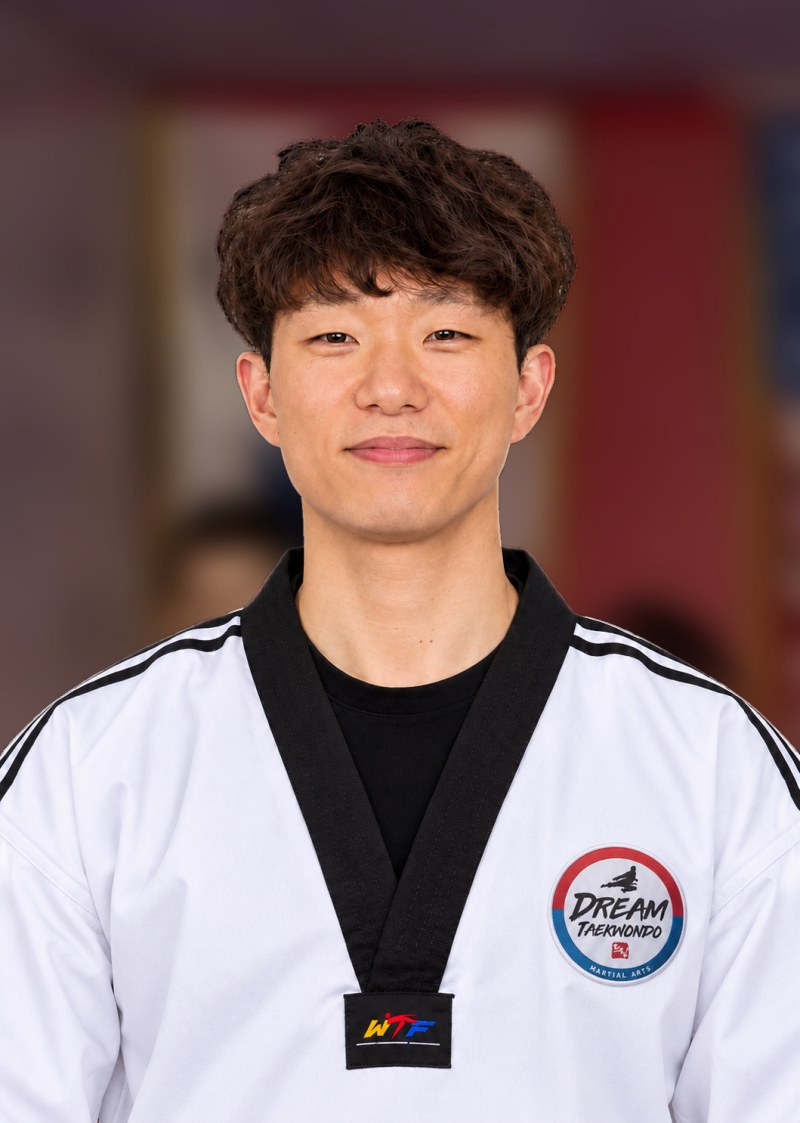
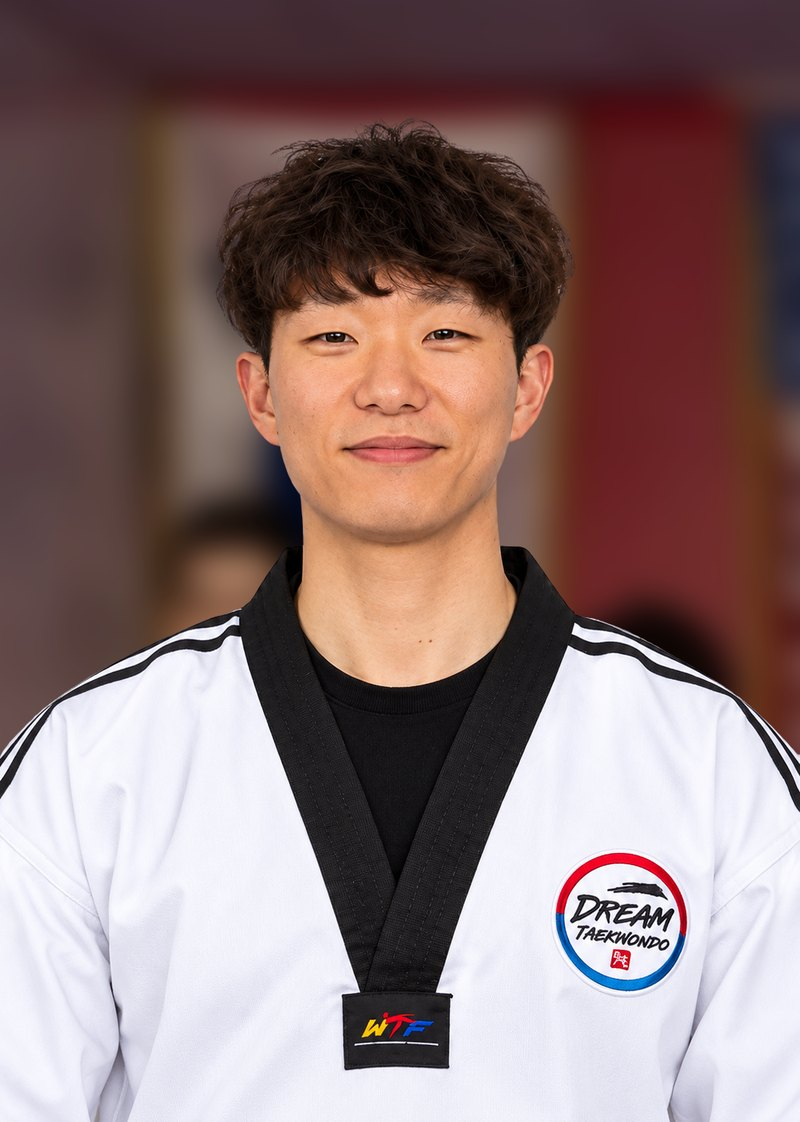
Restore previous Master Lee portrait
Claude-Session: https://claude.ai/code/session_01JVuN1EwvXGjJ5zS6mh1Q7v

diff --git a/index.html b/index.html
@@ -152,7 +152,7 @@
 <section id="about" style="background: #111111; color: #FFFFFF;">
 <div style="max-width: 1200px; margin: 0 auto; padding: 88px 24px; display: flex; flex-wrap: wrap; gap: 56px; align-items: center;">
 <div style="flex: 1 1 360px; min-width: 0; display: flex; justify-content: center;">
-<img class="coach-photo" src="images/master-lee.jpg?v=3" alt="Master Inho Lee in his Dream Taekwondo uniform at the studio" style="display: block; width: 100%; max-width: 400px; height: auto;">
+<img class="coach-photo" src="images/master-lee.jpg?v=4" alt="Master Inho Lee in his Dream Taekwondo uniform at the studio" style="display: block; width: 100%; max-width: 400px; height: auto;">
 </div>
 <div style="flex: 1 1 480px; min-width: 0;">
 <p style="margin: 0 0 8px; color: #FF5A6E; font-weight: 700; letter-spacing: 3px; font-size: 14px;">YOUR INSTRUCTOR</p>
